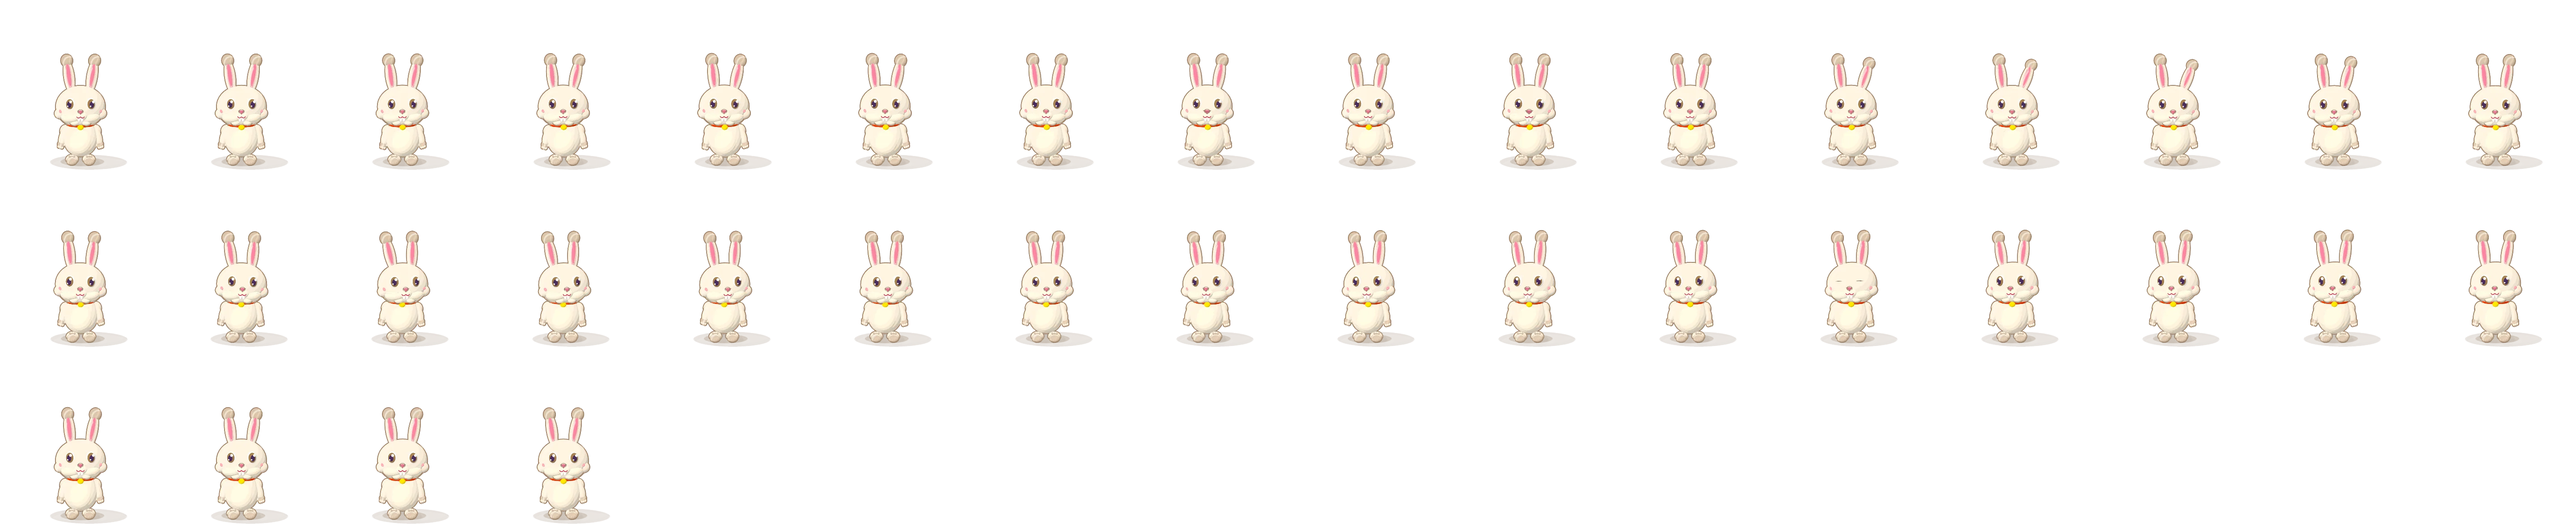
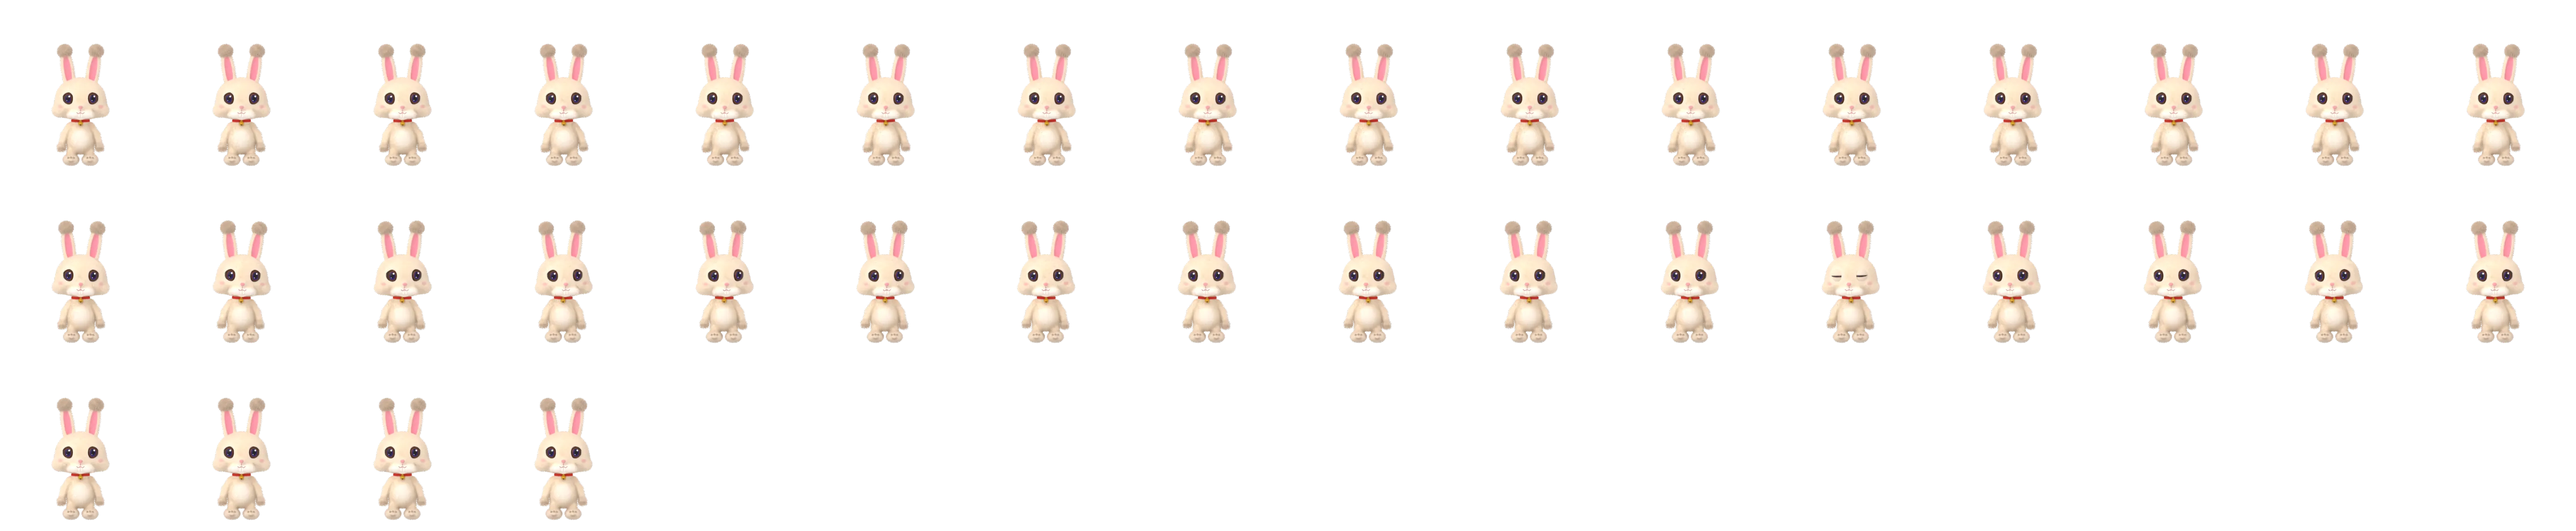
Charmfall: Pogo and the ten bosses baked from 3D rigs into the existing sheets
Pogo's 15 clips and the 10 kingdom bosses are rendered in Blender and written to
the same sprite-sheet names, grids and frame counts. Pogo's keyed clips now play
from these sheets instead of the live WebGL rig; the pet screen keeps its live Pogo.
Charms, board effects, map creatures and props are unchanged.

Changed region(s): [[0.0, 0.4049, 1.0, 0.654], [0.0, 0.0934, 1.0, 0.3426], [0.0, 0.7475, 0.25, 0.9966]]

diff --git a/index.html b/index.html
@@ -1178,7 +1178,8 @@ const paHtml = (name, cls) => `<div class="pogo pa${cls ? " " + cls : ""}" data-
 const PA_RUN = new Set(); let paRaf = 0;
 // 2026-10-28 İdris "kasmasın, her animasyon ve hareket en az 60 fps": the keyed clips are played live, a new pose every screen frame (60, or 120 on
 // ProMotion), through the 3D rig; the sheets in anim/ are only the fallback for a phone without WebGL.
-const paLive = () => !!(window.__P3 && window.PogoClip && !window.__fast); let paTok = 0;
+// 2026-11-24: the clips now play from the baked 3D sheets (anim/pogo-<name>.webp, rendered in Blender), so no WebGL skinning runs for them; the pet screen keeps its live Pogo.
+const paLive = () => !!(window.__liveClips && window.__P3 && window.PogoClip && !window.__fast); let paTok = 0;
 function paPlay(el, name, then) { if (!el || !PA[name]) return; el.dataset.pa = name; el.dataset.on = 1; const tok = ++paTok;
   if (paLive()) { let s = el._pa; if (!s || !s.cv) { el.style.backgroundImage = "none"; const cv = document.createElement("canvas"); cv.style.cssText = "display:block;width:100%;height:100%"; el.appendChild(cv); const cv3 = document.createElement("canvas");
       s = { cv, x: cv.getContext("2d"), cv3, st: { x: cv3.getContext("2d"), c: __P3.Z(), es: { a: 0, v: 0, b: 0, w: 0 }, py: 0, px: 0, pr: 0, t0: 0, ph: 0, mood: "", turn: 0 } };
